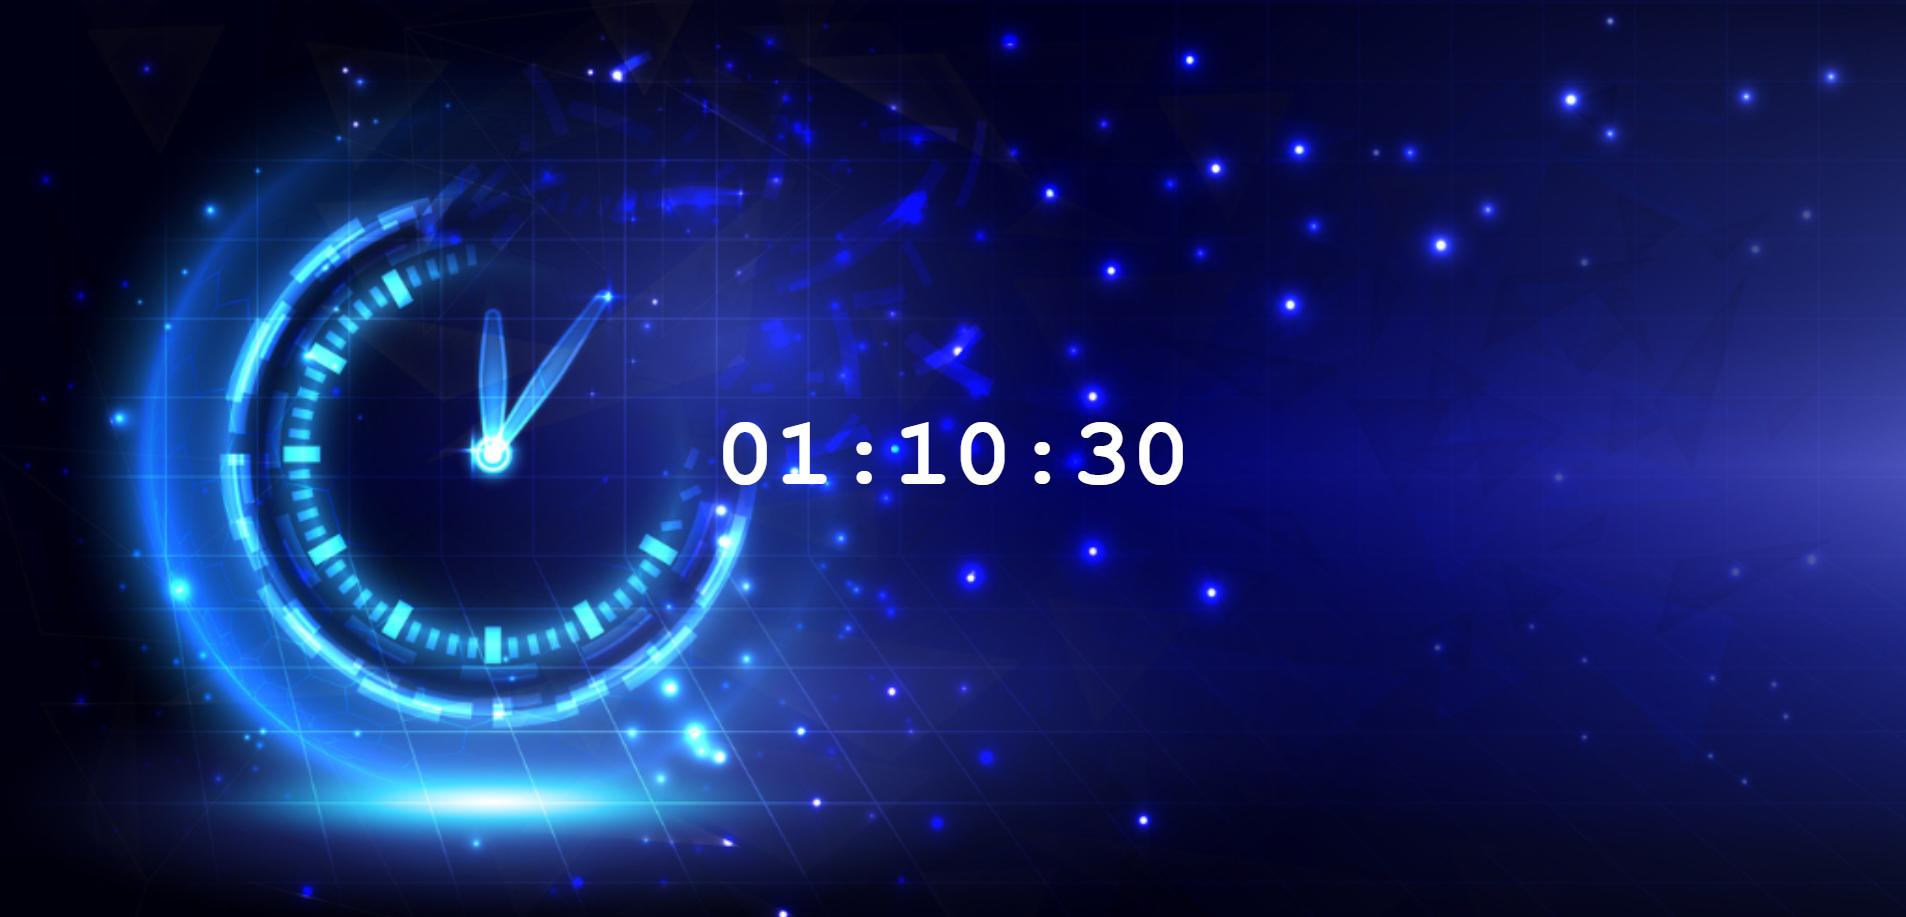
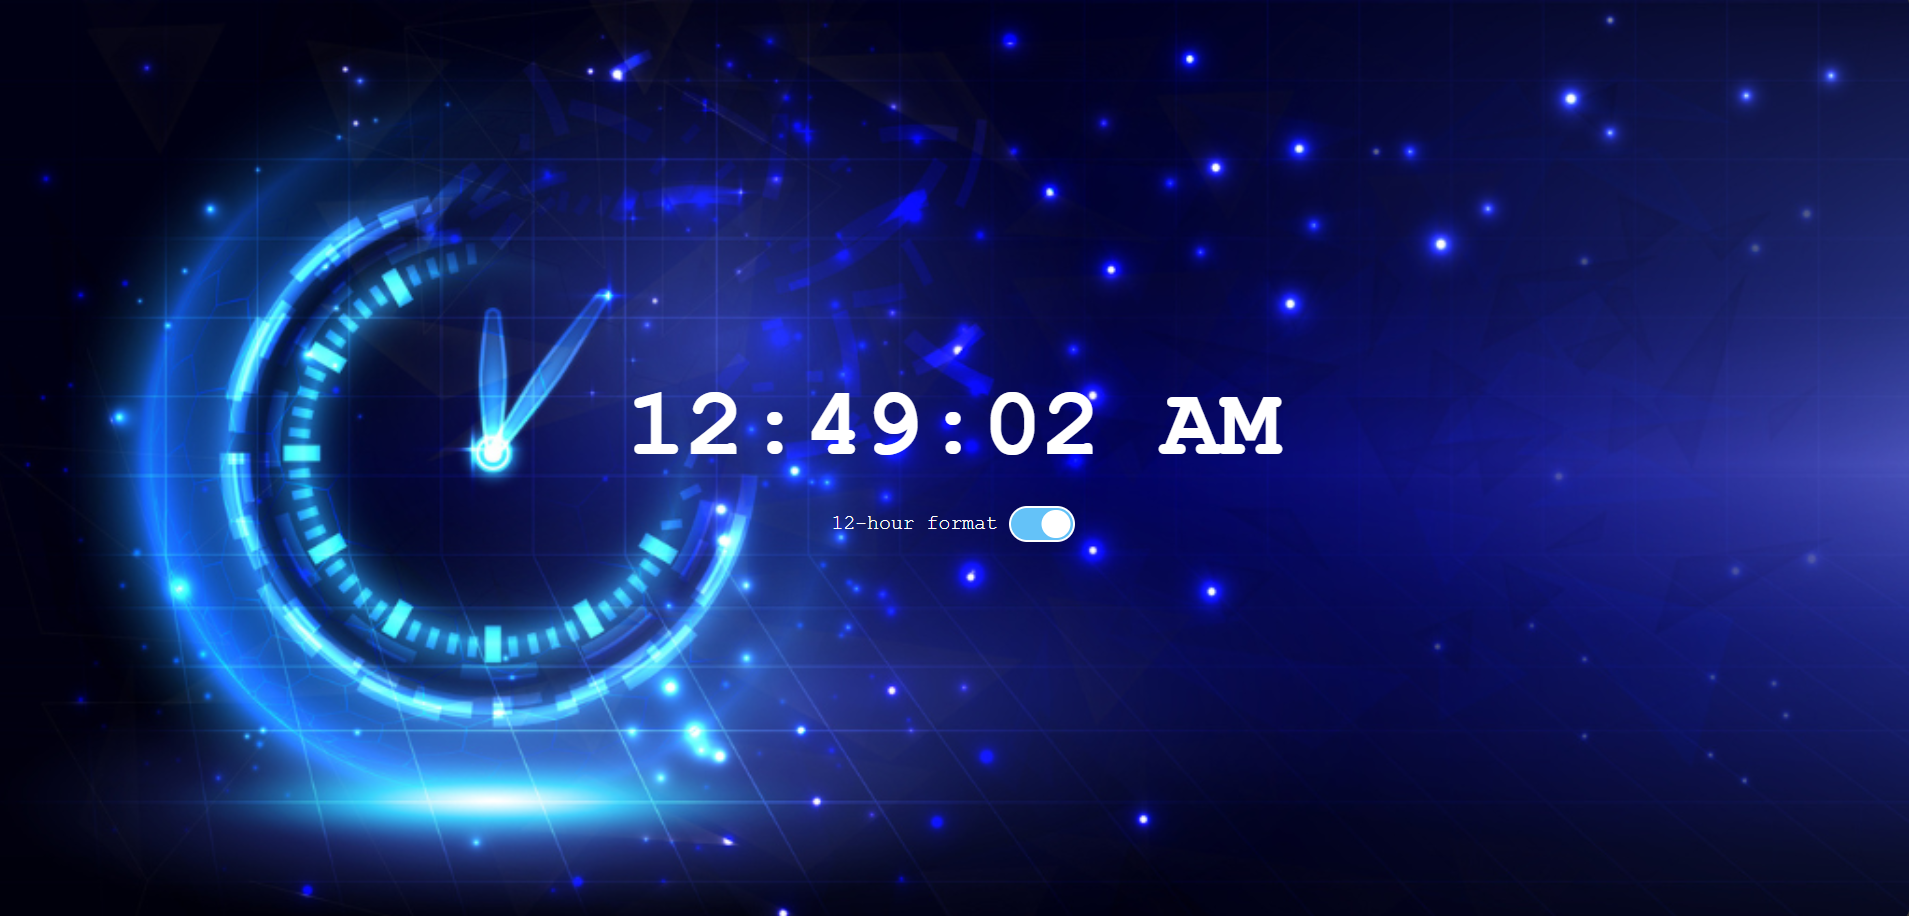
Add 12-hour format toggle

diff --git a/digital-clock/index.css b/digital-clock/index.css
@@ -9,8 +9,63 @@ body {
   background: url(img/background.png) no-repeat center center / cover;
   font-family: "Courier New", "monospace";
 }
-
+.clock-container {
+  display: flex;
+  flex-direction: column;
+  align-items: center;
+  gap: 20px;
+}
 h1 {
   font-size: 90px;
   margin: 0;
+}
+
+.switch-container {
+  display: flex;
+  align-items: center;
+  gap: 10px;
+  font-size: 18px;
+  cursor: pointer;
+}
+
+.switch {
+  position: relative;
+  width: 60px;
+  height: 32px;
+}
+
+.switch input {
+  opacity: 0;
+  width: 0;
+  height: 0;
+}
+
+.slider {
+  position: absolute;
+  inset: 0; /* shorthand for top left right bottom */
+  border: 2px solid white;
+  -webkit-transition: 0.4s;
+  transition: 0.4s;
+  border-radius: 34px;
+}
+
+.slider:before {
+  position: absolute;
+  content: "";
+  width: 26px;
+  height: 26px;
+  top: 1px;
+  left: 3px;
+  background-color: white;
+  -webkit-transition: 0.4s;
+  transition: 0.4s;
+  border-radius: 50%;
+}
+
+input:checked + .slider {
+  background-color: #64c2f8;
+}
+
+input:checked + .slider:before {
+  transform: translateX(25px);
 }

diff --git a/digital-clock/index.js b/digital-clock/index.js
@@ -1,16 +1,30 @@
 const clockDisplay = document.getElementById("clock-display");
+const hourFormatSwitch = document.getElementById("hour-format-switch");
+let is12HourFormat = false;
 
 updateTime(); // to show time once the page is loaded
 
 setInterval(updateTime, 1000);
+
+hourFormatSwitch.addEventListener("change", () => {
+  is12HourFormat = hourFormatSwitch.checked;
+  updateTime(); // <-- instantly refresh display
+});
 
 function updateTime() {
   const now = new Date();
   let hours = now.getHours();
   const minutes = now.getMinutes();
   const seconds = now.getSeconds();
+  let period = "";
 
-  clockDisplay.textContent = `${addZero(hours)}:${addZero(minutes)}:${addZero(seconds)}`;
+  if (is12HourFormat) {
+    period = hours < 12 ? "AM" : "PM";
+    hours = hours % 12;
+    hours = hours === 0 ? 12 : hours;
+  }
+
+  clockDisplay.textContent = `${addZero(hours)}:${addZero(minutes)}:${addZero(seconds)} ${period}`;
 }
 
 function addZero(num) {

diff --git a/digital-clock/index.html b/digital-clock/index.html
@@ -7,8 +7,16 @@
     <title>Digital Clock</title>
   </head>
   <body>
-    <h1 id="clock-display"></h1>
-
+    <div class="clock-container">
+      <h1 id="clock-display"></h1>
+      <label class="switch-container">
+        <span class="label-text">12-hour format</span>
+        <div class="switch">
+          <input type="checkbox" id="hour-format-switch" />
+          <span class="slider round"></span>
+        </div>
+      </label>
+    </div>
     <script src="index.js"></script>
   </body>
 </html>

diff --git a/digital-clock/README.md b/digital-clock/README.md
@@ -1,13 +1,21 @@
 # Digital Clock ⏲
 
-A simple digital clock that displays the current time and updates every second in real time. This project demonstrates core JavaScript concepts related to DOM manipulation and time-based updates.
+A simple digital clock that displays the current time and updates every second in real time. The project includes a toggle that allows switching between 12-hour and 24-hour time formats. It demonstrates core JavaScript concepts such as DOM manipulation, event handling, and time-based updates.
+
+## Features ✨
+
+- Displays the current system time
+- Updates automatically every second
+- Toggle between 12-hour and 24-hour formats
+- Real-time DOM updates using JavaScript
+- Clean and minimal user interface
 
 ## Key Concepts Used 🧩
 
 - DOM selection `document.getElementById()`
 - Repeat code `setInterval()`
 - Event handling `addEventListener()`
-- Updating values `.textContent`
+- Reading and updating values`.checked` `.textContent`
 - Conditional (Ternary) Operator `condition? value1: value2`
 
 ## Programming Languages Used 🛠
@@ -19,7 +27,3 @@ A simple digital clock that displays the current time and updates every second i
 ## Screenshot 📸
 
 ![Screenshot of the Stop Watch interface](img/js-digital-clock-screenshot.png)
-
-## Planned Features 🚀
-
-- Add toggle between 12-hour and 24-hour format
